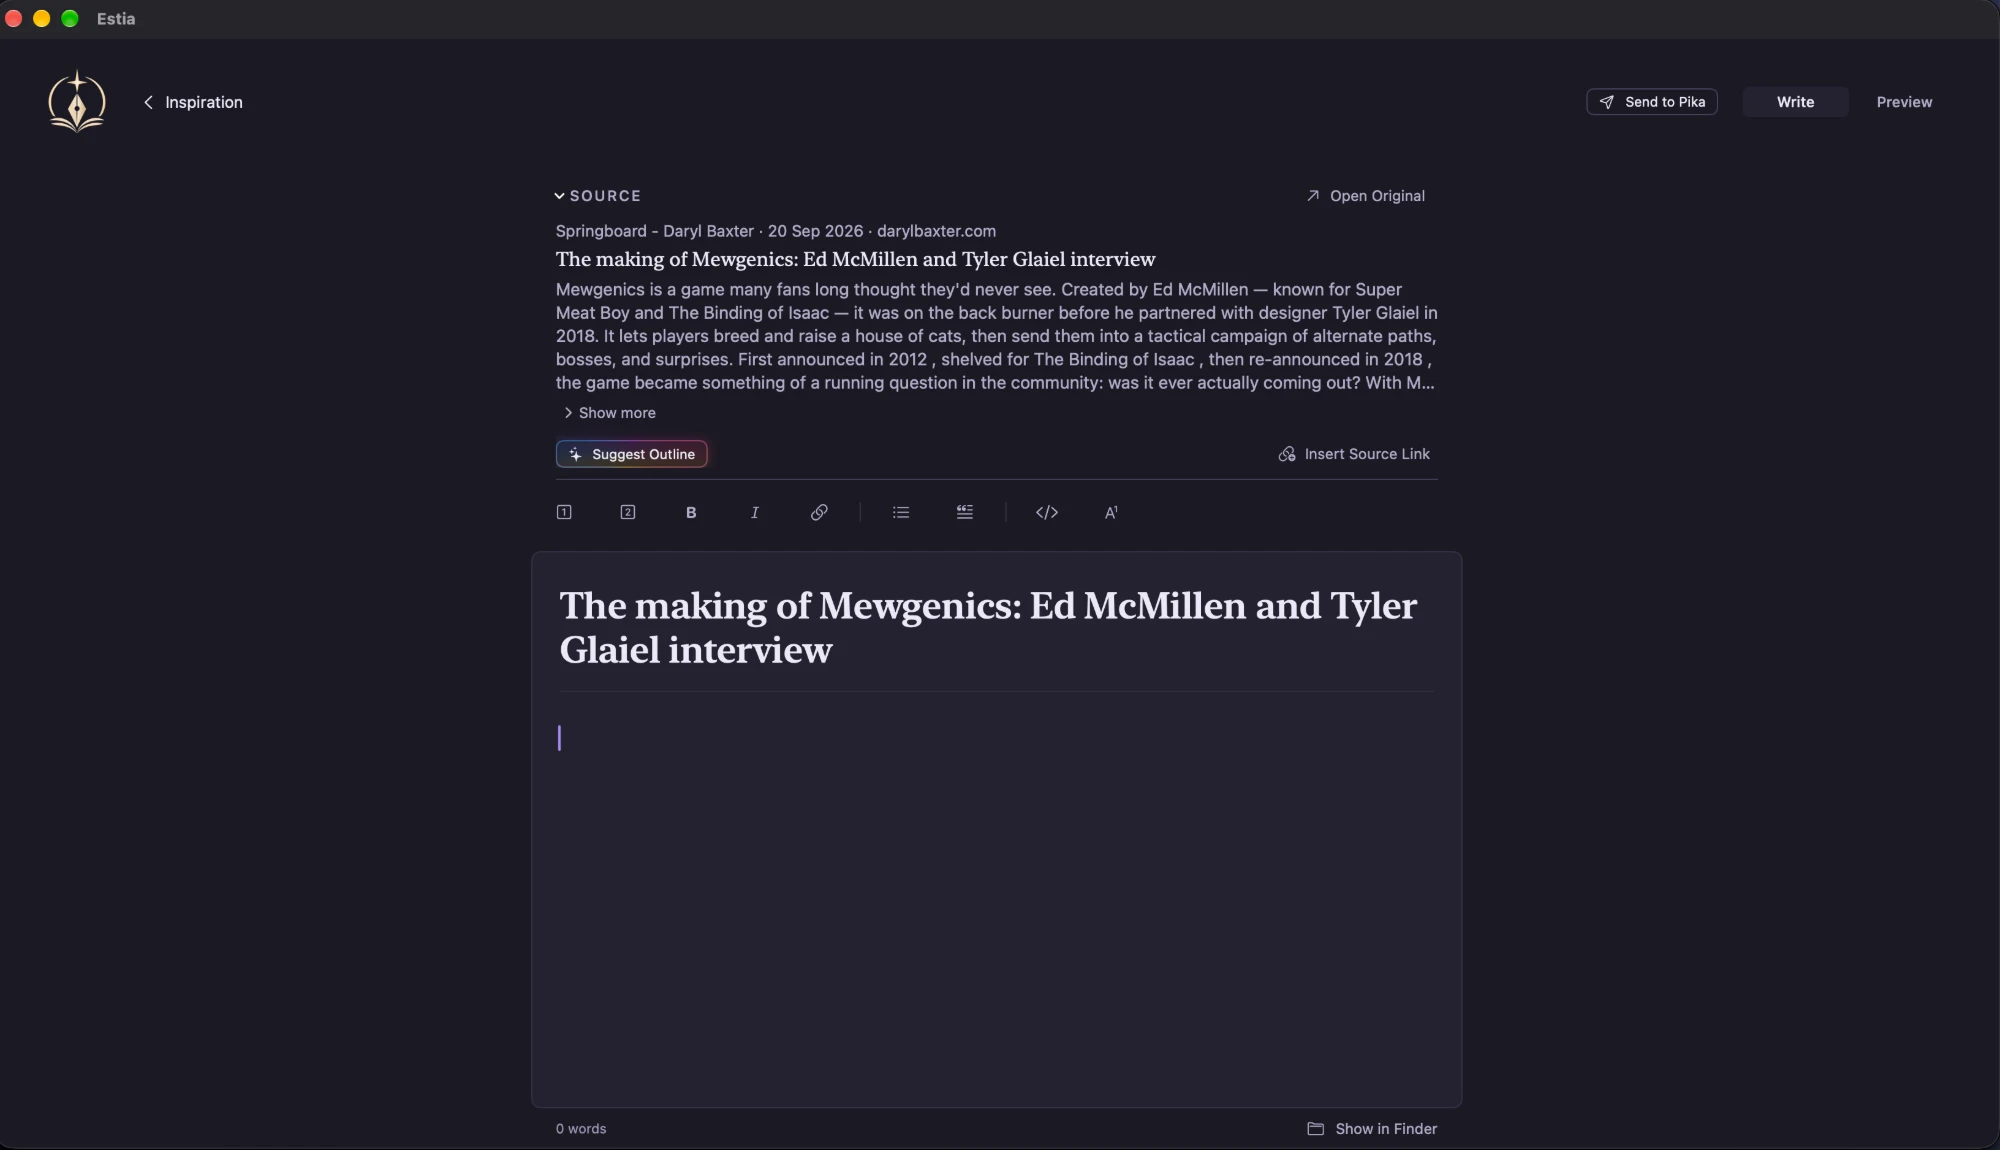
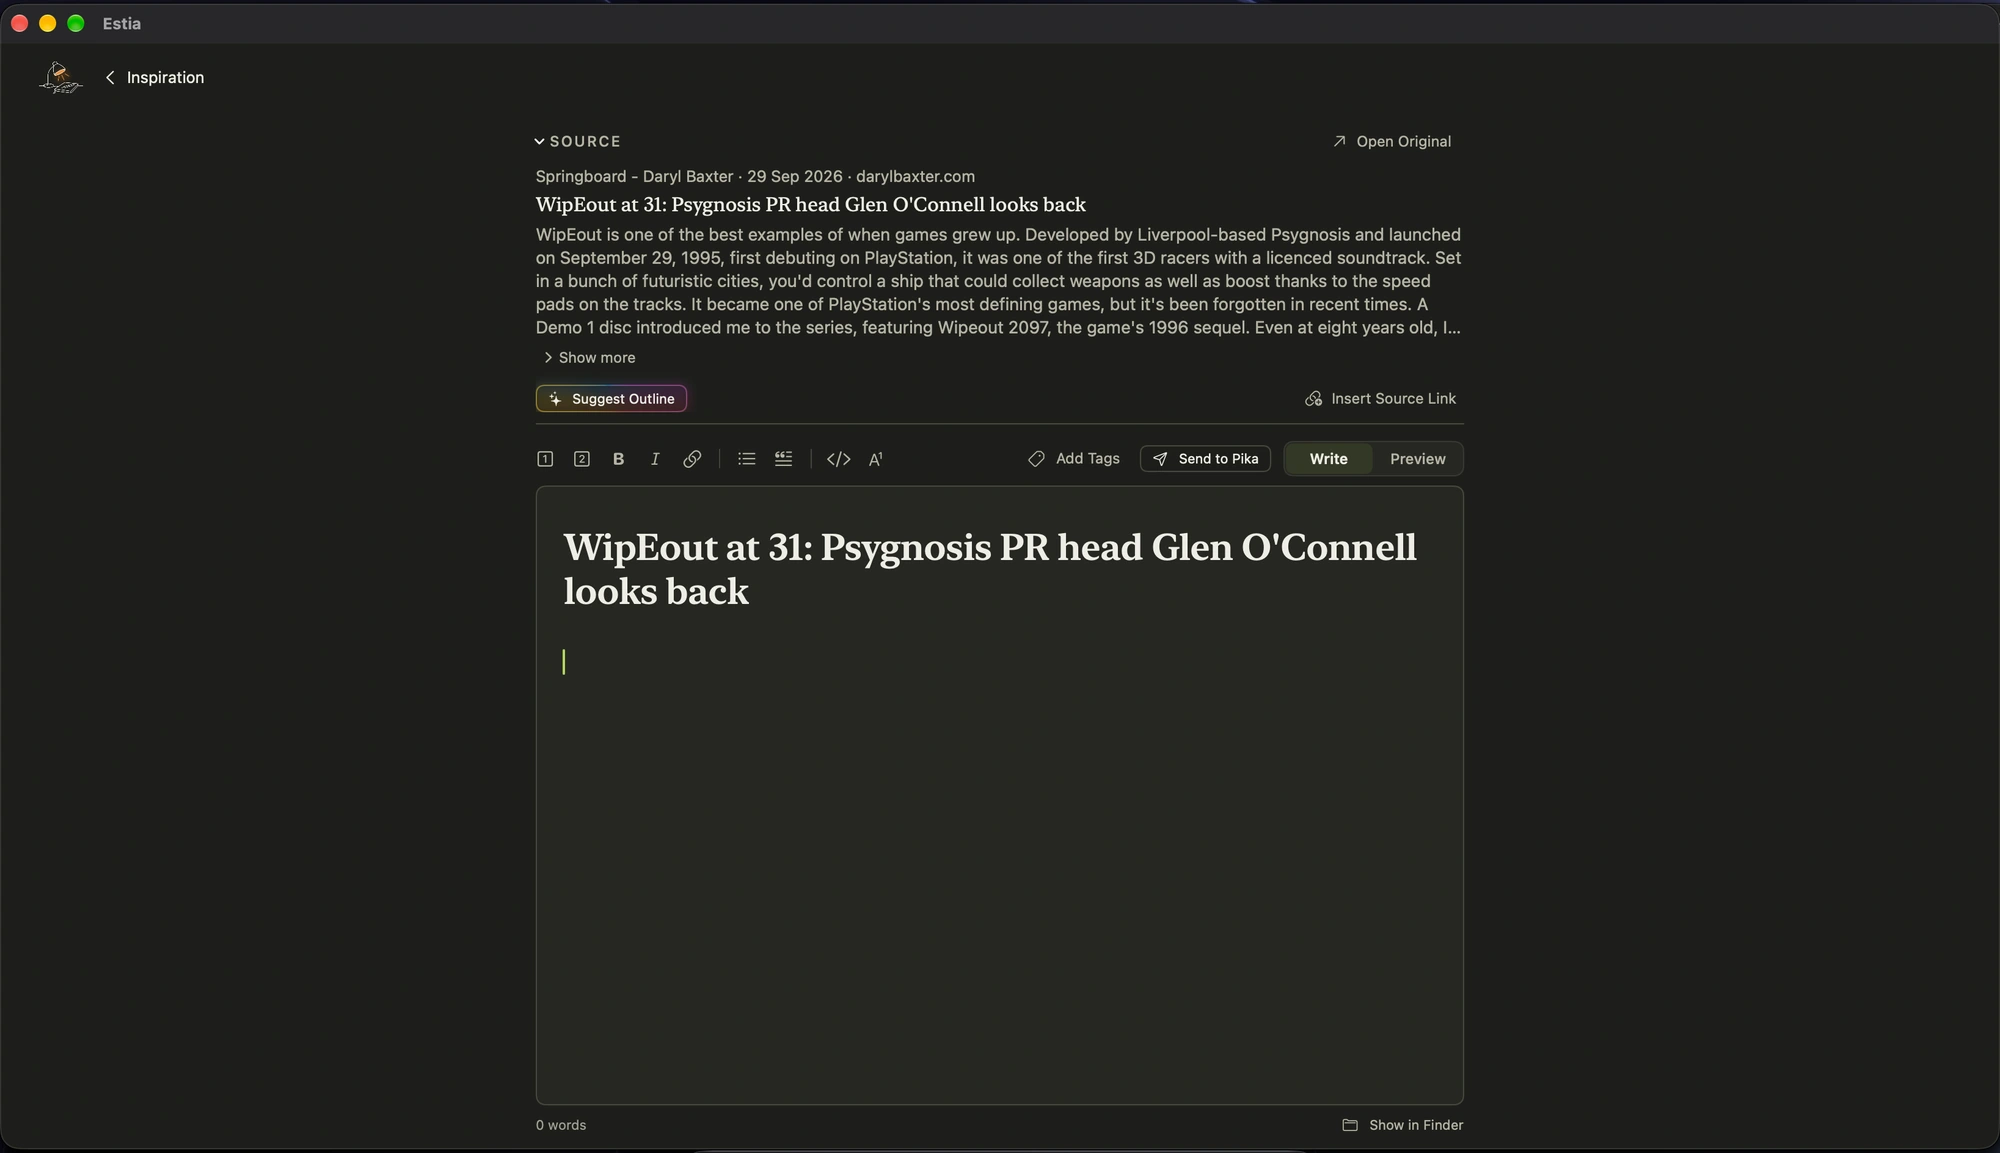
Update Estia screenshot to the Estia 1.3 build 7 window
Replace estia-screenshot.webp with a capture from build 7 showing the
transparent in-app branding. Resized once from the 3274 x 1888 source to
2000 x 1153 and saved as WebP; update the image dimensions and README.

diff --git a/estia/index.html b/estia/index.html
@@ -44,7 +44,7 @@
 
       <div class="product-shot">
         <figure class="screenshot">
-          <img src="/estia/assets/estia-screenshot.webp" width="2000" height="1150"
+          <img src="/estia/assets/estia-screenshot.webp" width="2000" height="1153"
                alt="Estia’s main window in dark mode, with a source article’s details and a Suggest Outline button above a new draft, and Send to Pika, Write and Preview in the toolbar.">
         </figure>
       </div>

diff --git a/README.md b/README.md
@@ -51,7 +51,7 @@ In `estia/assets/`:
 | --- | --- | --- |
 | `estia-icon-light.png` | 512 × 512 px | The approved Estia 1.3 Default icon (Light), a full-bleed square from the app's 1024 px master with its painted border trimmed (10 px each side) and resized once to 512 px. Shown at up to 128 CSS px, rounded by `.app-icon--ios`. |
 | `estia-icon-dark.png` | 512 × 512 px | Dark-mode variant from the Dark master, chosen by `<picture>`. |
-| `estia-screenshot.webp` | 2000 × 1150 px | Real capture of the main window, including its own window chrome, so the page adds only a thin frame. |
+| `estia-screenshot.webp` | 2000 × 1153 px | Real capture of the main window from Estia 1.3 (build 7), including its own window chrome, so the page adds only a thin frame. Resized once from the 3274 × 1888 px source and saved as WebP (quality 93). |
 | `download-on-the-mac-app-store-badge.svg` | 156 × 40 px (SVG) | Apple's official black “Download on the Mac App Store” badge (US-UK English), unmodified, from [Apple's marketing toolbox](https://toolbox.marketingtools.apple.com/app-store/). Links to the live App Store listing from the home page and the Estia hero. Don't edit the artwork; keep at least 40 px high with a quarter of its height as clear space. |
 
 When replacing an image, keep the `width` and `height` attributes in the HTML matching its pixel size so the aspect ratio is reserved. The icon's `alt` stays empty because the app name is right next to it; the screenshot's `alt` should describe what it shows.
